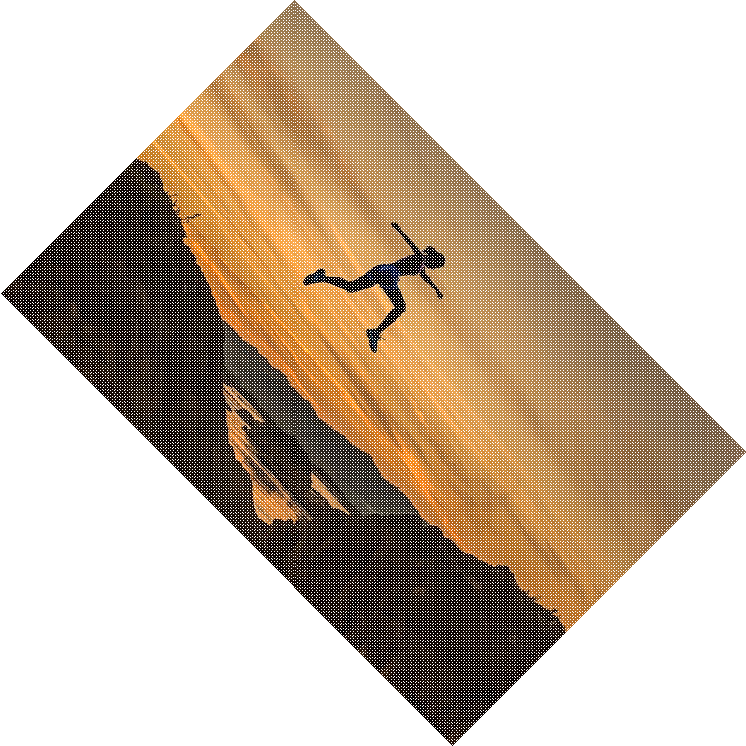
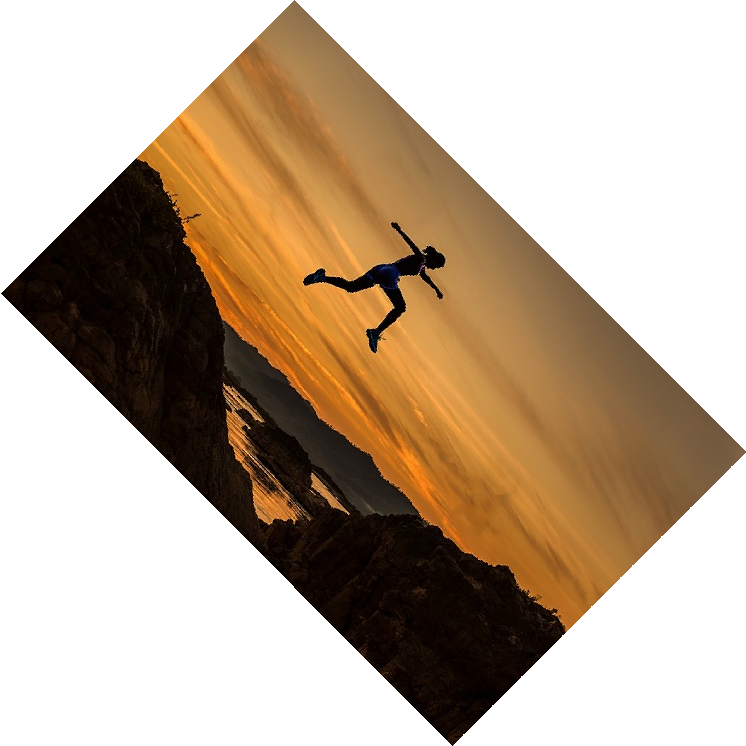
回転時の欠損情報対応

Changed region(s): [[0.0, 0.0, 0.9866, 0.9866]]

diff --git a/projects/learn_image_process/image_process/src/filter/rotate.rs b/projects/learn_image_process/image_process/src/filter/rotate.rs
@@ -76,7 +76,45 @@ pub fn apply(
                     result_pixels.push(*pixel);
                 }
                 None => {
-                    result_pixels.push(Rgba([0u8, 0u8, 0u8, 0u8]));
+                    // 上下左右に値がある場合は平均値を設定
+                    let mut set_pixel = false;
+                    if x > 0 && x < new_width && y > 0 && y < new_height {
+                        let colors = vec![(x - 1, y), (x + 1, y), (x, y - 1), (x, y + 1)]
+                            .iter()
+                            .map(|(x, y)| x + y * new_width)
+                            .map(|pos| hm.get(&(pos as usize)))
+                            .collect::<Vec<_>>();
+                        let enable_color_count = colors
+                            .iter()
+                            .filter(|color| color.is_some())
+                            .collect::<Vec<_>>()
+                            .len() as u32;
+                        if enable_color_count > 2 {
+                            let mut r = 0u32;
+                            let mut g = 0u32;
+                            let mut b = 0u32;
+                            colors
+                                .iter()
+                                .filter(|color| color.is_some())
+                                .map(|color| color.unwrap())
+                                .for_each(|rgb| {
+                                    r += rgb[0] as u32;
+                                    g += rgb[1] as u32;
+                                    b += rgb[2] as u32;
+                                });
+
+                            result_pixels.push(Rgba([
+                                (r / enable_color_count) as u8,
+                                (g / enable_color_count) as u8,
+                                (b / enable_color_count) as u8,
+                                255u8,
+                            ]));
+                            set_pixel = true;
+                        }
+                    }
+                    if !set_pixel {
+                        result_pixels.push(Rgba([0u8, 0u8, 0u8, 0u8]));
+                    }
                 }
             }
         }
